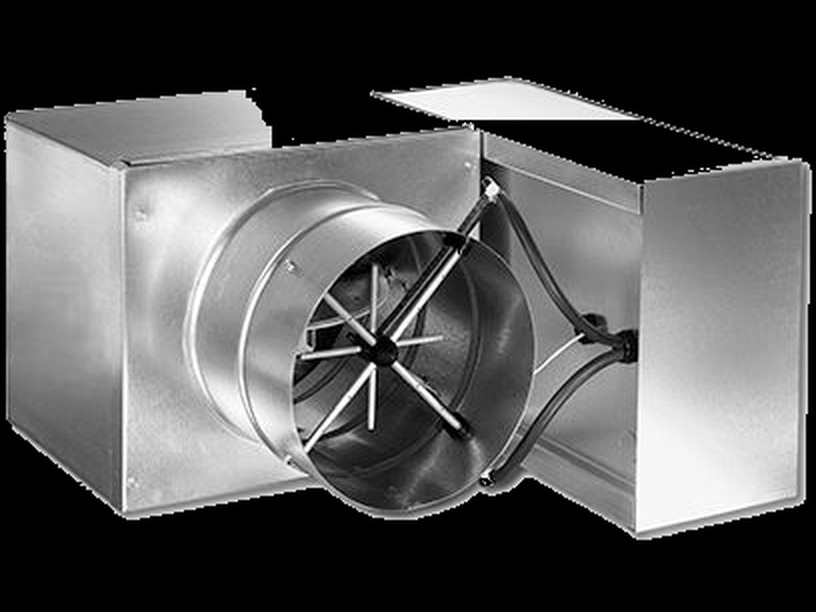
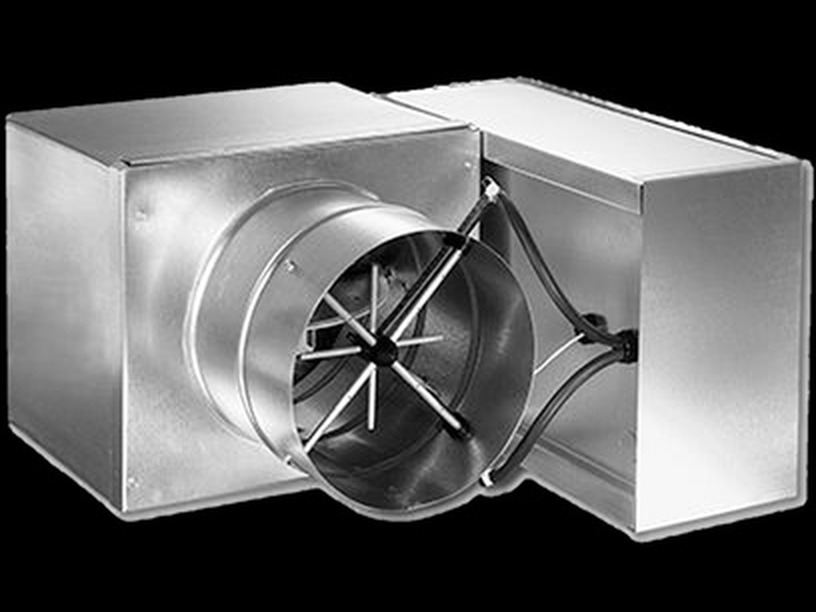
Update VAVs tile photo

diff --git a/index.html b/index.html
@@ -14,16 +14,16 @@
     <!-- The ?v= query string cache-busts every stylesheet + script below.
          Bump it (any new value, e.g. the date) whenever deploying changes,
          so browsers can never mix a stale cached module with a fresh one. -->
-    <link rel="stylesheet" href="CSS/base.css?v=20261030h">
-    <link rel="stylesheet" href="CSS/main.css?v=20261030h">
-    <link rel="stylesheet" href="CSS/products.css?v=20261030h">
-    <link rel="stylesheet" href="CSS/cart.css?v=20261030h">
-    <link rel="stylesheet" href="CSS/docs.css?v=20261030h">
-    <link rel="stylesheet" href="CSS/projects.css?v=20261030h">
-    <link rel="stylesheet" href="CSS/project_view.css?v=20261030h">
-    <link rel="stylesheet" href="CSS/design_search.css?v=20261030h">
-    <link rel="stylesheet" href="CSS/quick_lookup.css?v=20261030h">
-    <link rel="stylesheet" href="CSS/calculators.css?v=20261030h">
+    <link rel="stylesheet" href="CSS/base.css?v=20261030i">
+    <link rel="stylesheet" href="CSS/main.css?v=20261030i">
+    <link rel="stylesheet" href="CSS/products.css?v=20261030i">
+    <link rel="stylesheet" href="CSS/cart.css?v=20261030i">
+    <link rel="stylesheet" href="CSS/docs.css?v=20261030i">
+    <link rel="stylesheet" href="CSS/projects.css?v=20261030i">
+    <link rel="stylesheet" href="CSS/project_view.css?v=20261030i">
+    <link rel="stylesheet" href="CSS/design_search.css?v=20261030i">
+    <link rel="stylesheet" href="CSS/quick_lookup.css?v=20261030i">
+    <link rel="stylesheet" href="CSS/calculators.css?v=20261030i">
 </head>
 <body>
     <div id="app-root"></div>
@@ -36,47 +36,47 @@
          5. Individual views (main, projects, project_view, product base)
          6. Per-product extensions (filter visibility hooks etc.)
          7. App entry point last - wires it all together on DOMContentLoaded -->
-    <script src="JS/state.js?v=20261030h"></script>
-    <script src="JS/data.js?v=20261030h"></script>
-    <script src="JS/capacity_core.js?v=20261030h"></script>
-    <script src="JS/capacity.js?v=20261030h"></script>
-    <script src="JS/gas_pack_capacity.js?v=20261030h"></script>
-    <script src="JS/ui.js?v=20261030h"></script>
-    <script src="JS/background.js?v=20261030h"></script>
-    <script src="JS/visual_fx.js?v=20261030h"></script>
-    <script src="JS/quick_lookup.js?v=20261030h"></script>
-    <script src="JS/project_sync.js?v=20261030h"></script>
-    <script src="JS/cart.js?v=20261030h"></script>
-    <script src="JS/docs.js?v=20261030h"></script>
-    <script src="JS/privacy.js?v=20261030h"></script>
-    <script src="JS/main.js?v=20261030h"></script>
-    <script src="JS/projects.js?v=20261030h"></script>
-    <script src="JS/admin.js?v=20261030h"></script>
-    <script src="JS/jszip.min.js?v=20261030h"></script>
-    <script src="JS/schedule_templates.js?v=20261030h"></script>
-    <script src="JS/export.js?v=20261030h"></script>
-    <script src="JS/project_view.js?v=20261030h"></script>
-    <script src="JS/base.js?v=20261030h"></script>
-    <script src="JS/gas_packs.js?v=20261030h"></script>
-    <script src="JS/marvair.js?v=20261030h"></script>
-    <script src="JS/mini_splits.js?v=20261030h"></script>
-    <script src="JS/multi_position_splits.js?v=20261030h"></script>
-    <script src="JS/gas_splits.js?v=20261030h"></script>
-    <script src="JS/vfds.js?v=20261030h"></script>
-    <script src="JS/diffusers.js?v=20261030h"></script>
-    <script src="JS/grilles.js?v=20261030h"></script>
-    <script src="JS/gps.js?v=20261030h"></script>
-    <script src="JS/design_search.js?v=20261030h"></script>
+    <script src="JS/state.js?v=20261030i"></script>
+    <script src="JS/data.js?v=20261030i"></script>
+    <script src="JS/capacity_core.js?v=20261030i"></script>
+    <script src="JS/capacity.js?v=20261030i"></script>
+    <script src="JS/gas_pack_capacity.js?v=20261030i"></script>
+    <script src="JS/ui.js?v=20261030i"></script>
+    <script src="JS/background.js?v=20261030i"></script>
+    <script src="JS/visual_fx.js?v=20261030i"></script>
+    <script src="JS/quick_lookup.js?v=20261030i"></script>
+    <script src="JS/project_sync.js?v=20261030i"></script>
+    <script src="JS/cart.js?v=20261030i"></script>
+    <script src="JS/docs.js?v=20261030i"></script>
+    <script src="JS/privacy.js?v=20261030i"></script>
+    <script src="JS/main.js?v=20261030i"></script>
+    <script src="JS/projects.js?v=20261030i"></script>
+    <script src="JS/admin.js?v=20261030i"></script>
+    <script src="JS/jszip.min.js?v=20261030i"></script>
+    <script src="JS/schedule_templates.js?v=20261030i"></script>
+    <script src="JS/export.js?v=20261030i"></script>
+    <script src="JS/project_view.js?v=20261030i"></script>
+    <script src="JS/base.js?v=20261030i"></script>
+    <script src="JS/gas_packs.js?v=20261030i"></script>
+    <script src="JS/marvair.js?v=20261030i"></script>
+    <script src="JS/mini_splits.js?v=20261030i"></script>
+    <script src="JS/multi_position_splits.js?v=20261030i"></script>
+    <script src="JS/gas_splits.js?v=20261030i"></script>
+    <script src="JS/vfds.js?v=20261030i"></script>
+    <script src="JS/diffusers.js?v=20261030i"></script>
+    <script src="JS/grilles.js?v=20261030i"></script>
+    <script src="JS/gps.js?v=20261030i"></script>
+    <script src="JS/design_search.js?v=20261030i"></script>
     <!-- Calculators: vendored PsychroLib (MIT), the IP wrapper, the SVG
          chart, the hub view, then each calculator (registers itself). -->
-    <script src="JS/psychrolib.js?v=20261030h"></script>
-    <script src="JS/psychro_units.js?v=20261030h"></script>
-    <script src="JS/psychro_core.js?v=20261030h"></script>
-    <script src="JS/psychro_pdf.js?v=20261030h"></script>
-    <script src="JS/psychro_chart.js?v=20261030h"></script>
-    <script src="JS/calculators.js?v=20261030h"></script>
-    <script src="JS/psychrometrics.js?v=20261030h"></script>
-    <script src="JS/dewpoint.js?v=20261030h"></script>
-    <script src="JS/app.js?v=20261030h"></script>
+    <script src="JS/psychrolib.js?v=20261030i"></script>
+    <script src="JS/psychro_units.js?v=20261030i"></script>
+    <script src="JS/psychro_core.js?v=20261030i"></script>
+    <script src="JS/psychro_pdf.js?v=20261030i"></script>
+    <script src="JS/psychro_chart.js?v=20261030i"></script>
+    <script src="JS/calculators.js?v=20261030i"></script>
+    <script src="JS/psychrometrics.js?v=20261030i"></script>
+    <script src="JS/dewpoint.js?v=20261030i"></script>
+    <script src="JS/app.js?v=20261030i"></script>
 </body>
 </html>
